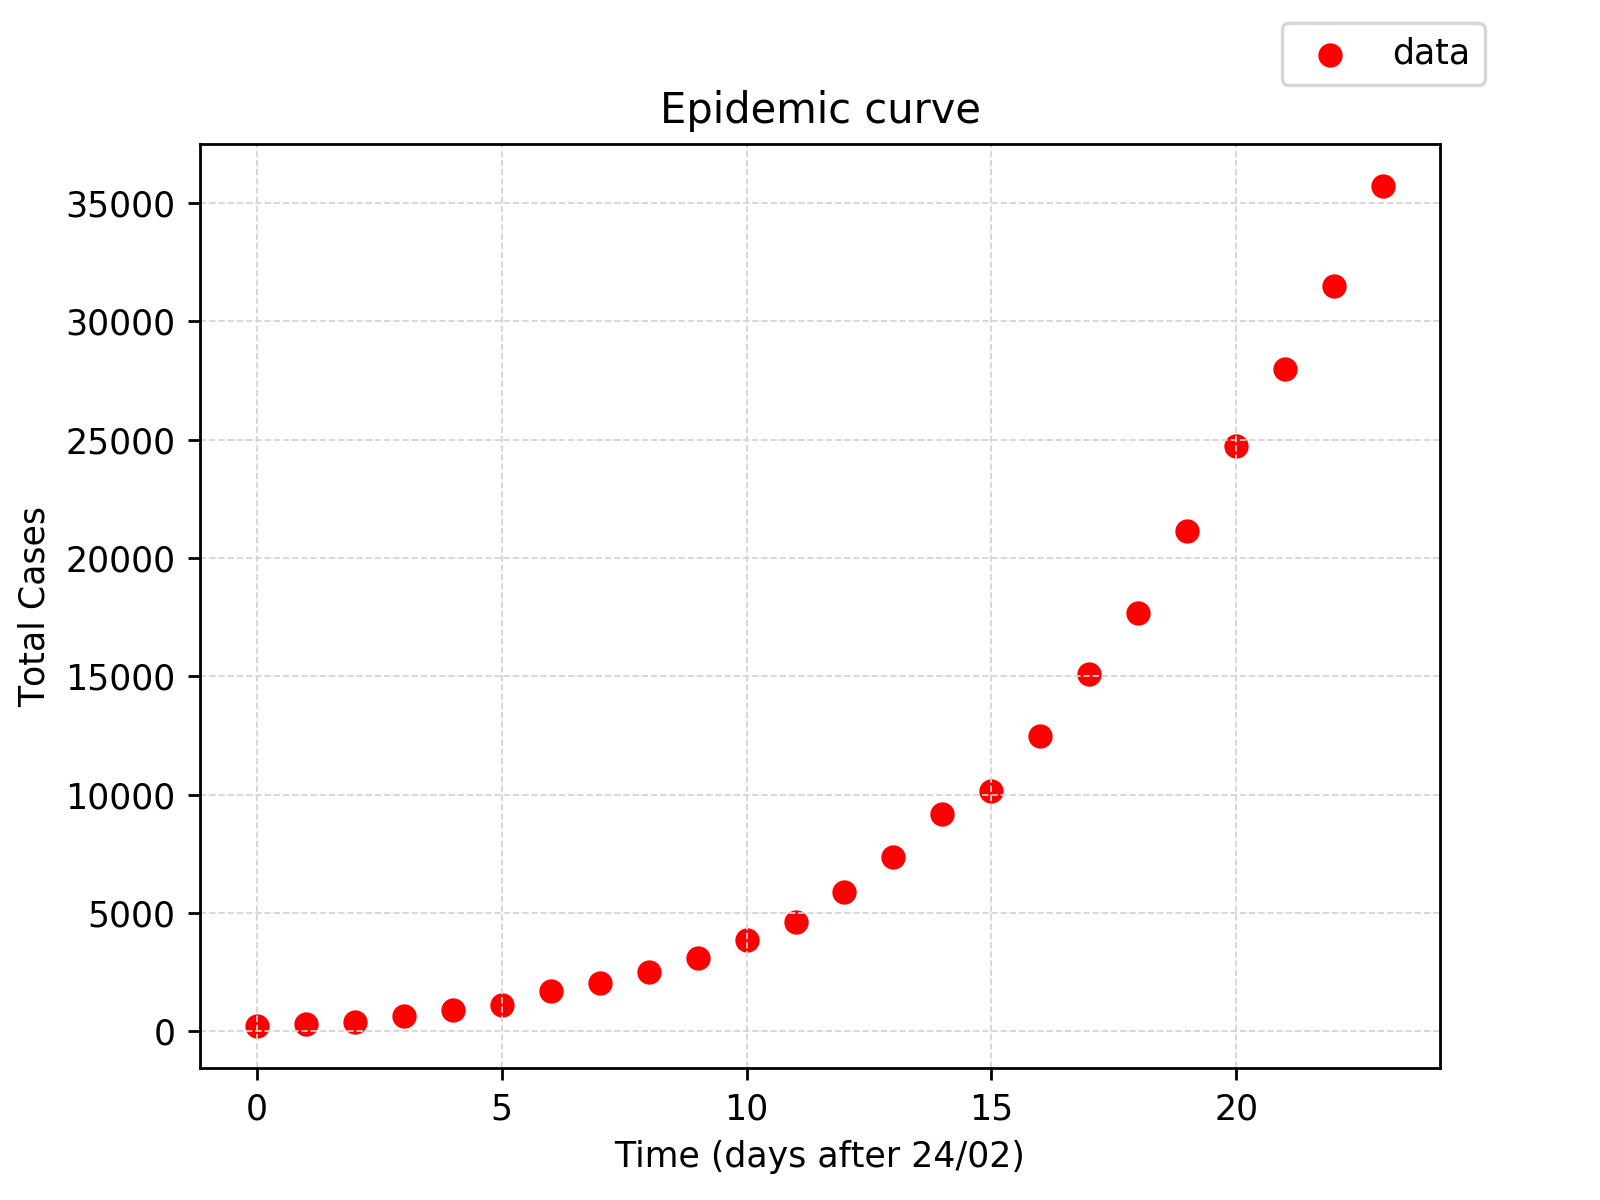
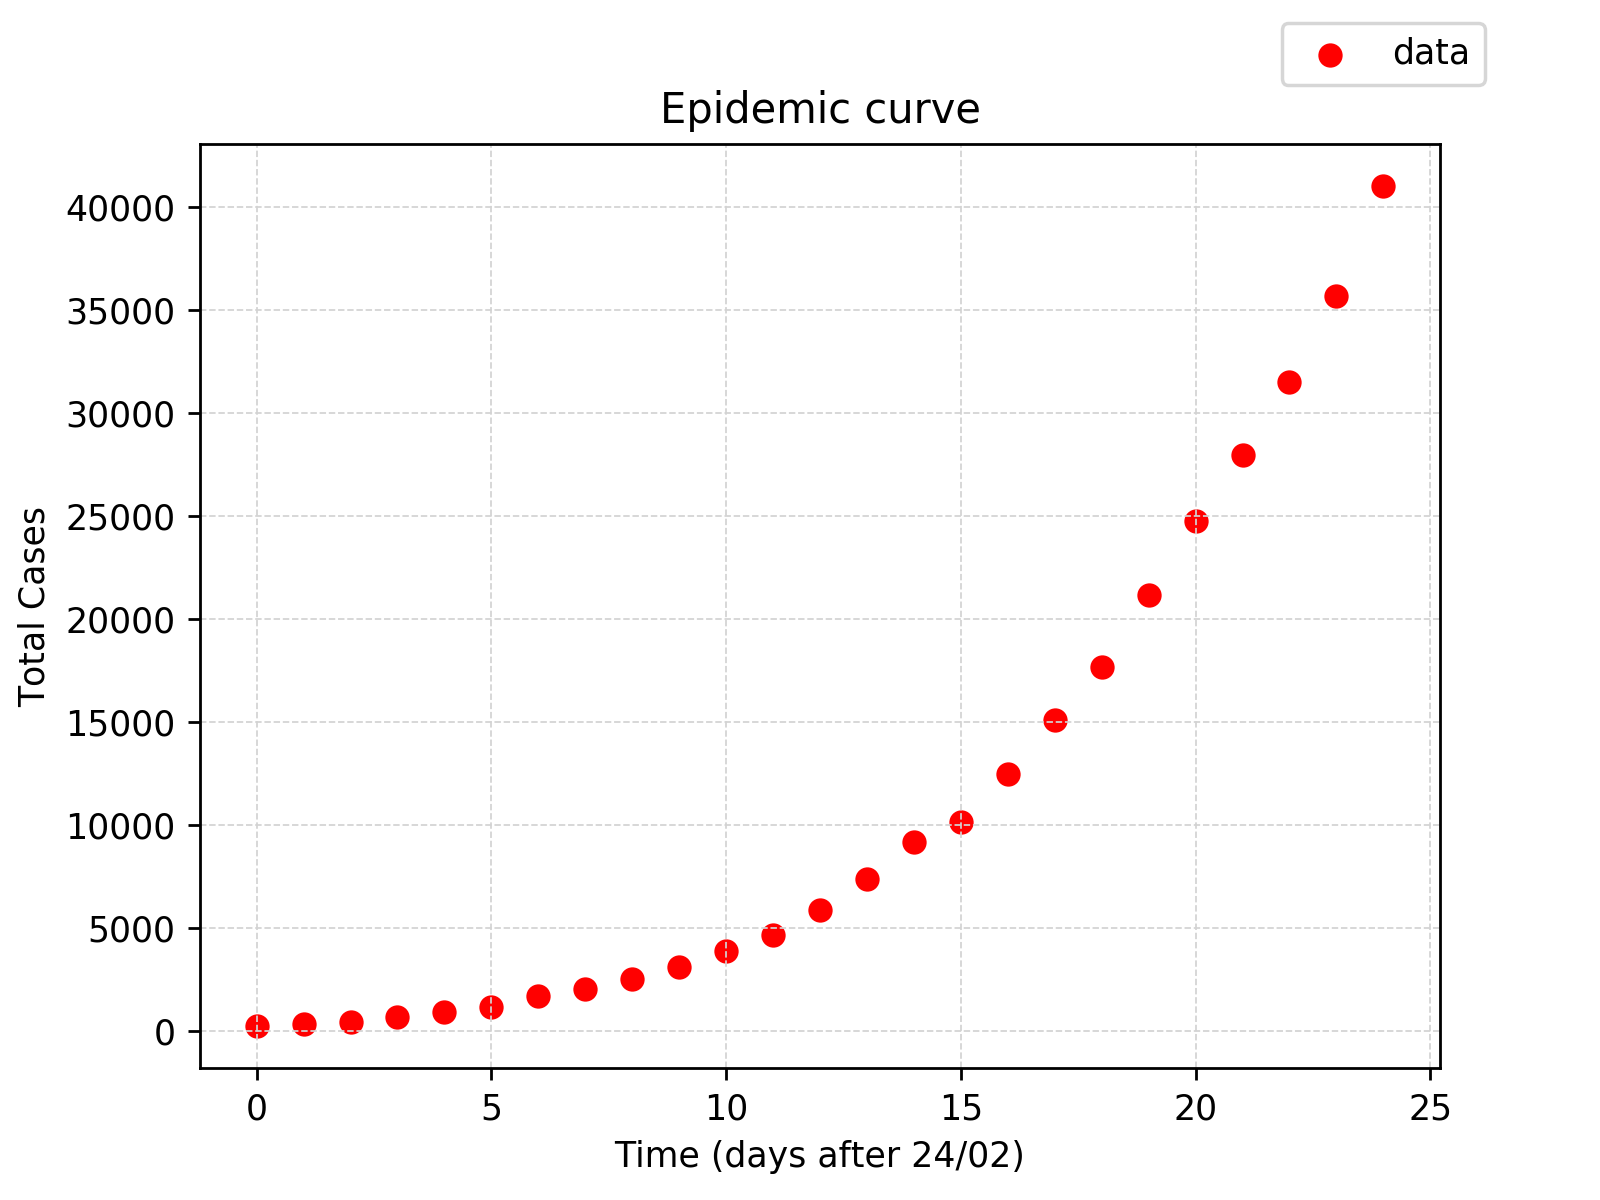
update to 19th march

diff --git a/explore_by_region.py b/explore_by_region.py
@@ -30,7 +30,7 @@ print(dataset.describe())
 #print(dataset.mean())
 
 print('\n DATE, REGION, TOT CASES, CURRENTLY INFECTED, NEW INFECTED, HEALED, DECEASED')
-print(dataset.iloc[lambda x: x.index > 440][
+print(dataset.iloc[lambda x: x.index > 482][
 ['data', 'denominazione_regione', 'totale_casi', 'totale_attualmente_positivi', 'nuovi_attualmente_positivi', 'dimessi_guariti', 'deceduti']
 ].to_string())
 
@@ -46,7 +46,7 @@ print(dataset.iloc[lambda x: x.index > 440][
 # monitoring hospitals in fvg
 print('\n MONITORING SITUATION IN FVG HOSPITALS')
 
-last_date = '2020-03-18 17:00:00'
+last_date = '2020-03-19 17:00:00'
 last_tot_cases = dataset.loc[dataset['data']==last_date][['denominazione_regione','totale_casi','totale_attualmente_positivi', 'totale_ospedalizzati', 'terapia_intensiva']]
 
 print('\nTotale casi in fvg')
@@ -62,8 +62,11 @@ print('\n')
 ################################################################################################################################
 # total cases by region
 print('\n HOSPITALS\' SITUATION IN WHOLE ITALY')
-
 print(last_tot_cases.to_string(index=False))
+print('\n GENERAL SITUATION IN WHOLE ITALY')
+last_tot_general = dataset.loc[dataset['data']==last_date][['denominazione_regione','nuovi_attualmente_positivi','dimessi_guariti', 'deceduti']]
+print(last_tot_general.to_string(index=False))
+################################################################################################################################
 
 counts_tot_cases_by_region = [
 (region, last_tot_cases.loc[last_tot_cases['denominazione_regione']==region]['totale_casi']) for region in np.unique(dataset['denominazione_regione'])
